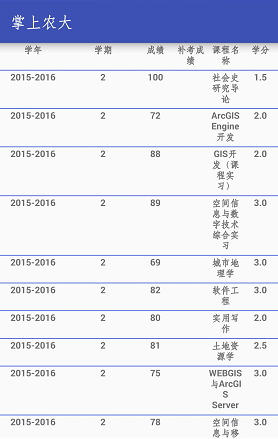
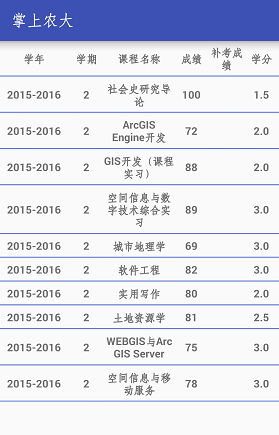
score layout

Changed region(s): [[0.0, 0.0299, 1.0, 1.0], [0.6619, 0.4782, 0.7194, 0.508], [0.2878, 0.4782, 0.3165, 0.508]]

diff --git a/app/src/main/java/com/fafu/zhengxianyou/livingincampus/adapter/ScoreAdapter.java b/app/src/main/java/com/fafu/zhengxianyou/livingincampus/adapter/ScoreAdapter.java
@@ -49,12 +49,12 @@ public class ScoreAdapter extends BaseAdapter {
         if(arg1 == null) {
             view = LayoutInflater.from(context).inflate(R.layout.score_item, null);
             viewHolder = new ViewHolder();
-            viewHolder.subject = (TextView) view.findViewById(R.id.tv_subject);
-            viewHolder.category = (TextView) view.findViewById(R.id.tv_category);
-            viewHolder.credit = (TextView) view.findViewById(R.id.tv_credit);
-            viewHolder.gradePoint = (TextView) view.findViewById(R.id.tv_gradePoint);
-            viewHolder.score = (TextView) view.findViewById(R.id.tv_score);
-            viewHolder.finalScore = (TextView) view.findViewById(R.id.tv_finalScore);
+            viewHolder.subject = (TextView) view.findViewById(R.id.tv_year);
+            viewHolder.category = (TextView) view.findViewById(R.id.tv_term);
+            viewHolder.credit = (TextView) view.findViewById(R.id.tv_score);
+            viewHolder.gradePoint = (TextView) view.findViewById(R.id.tv_finalScore);
+            viewHolder.score = (TextView) view.findViewById(R.id.tv_subject);
+            viewHolder.finalScore = (TextView) view.findViewById(R.id.tv_point);
             view.setTag(viewHolder);
         } else {
             view = arg1;

diff --git a/app/src/main/java/com/fafu/zhengxianyou/livingincampus/app/ForgetActivity.java b/app/src/main/java/com/fafu/zhengxianyou/livingincampus/app/ForgetActivity.java
@@ -1,7 +1,9 @@
-package com.fafu.zhengxianyou.livingincampus;
+package com.fafu.zhengxianyou.livingincampus.app;
 
 import android.os.Bundle;
 import android.support.v7.app.AppCompatActivity;
+
+import com.fafu.zhengxianyou.livingincampus.R;
 
 public class ForgetActivity extends AppCompatActivity {
 
